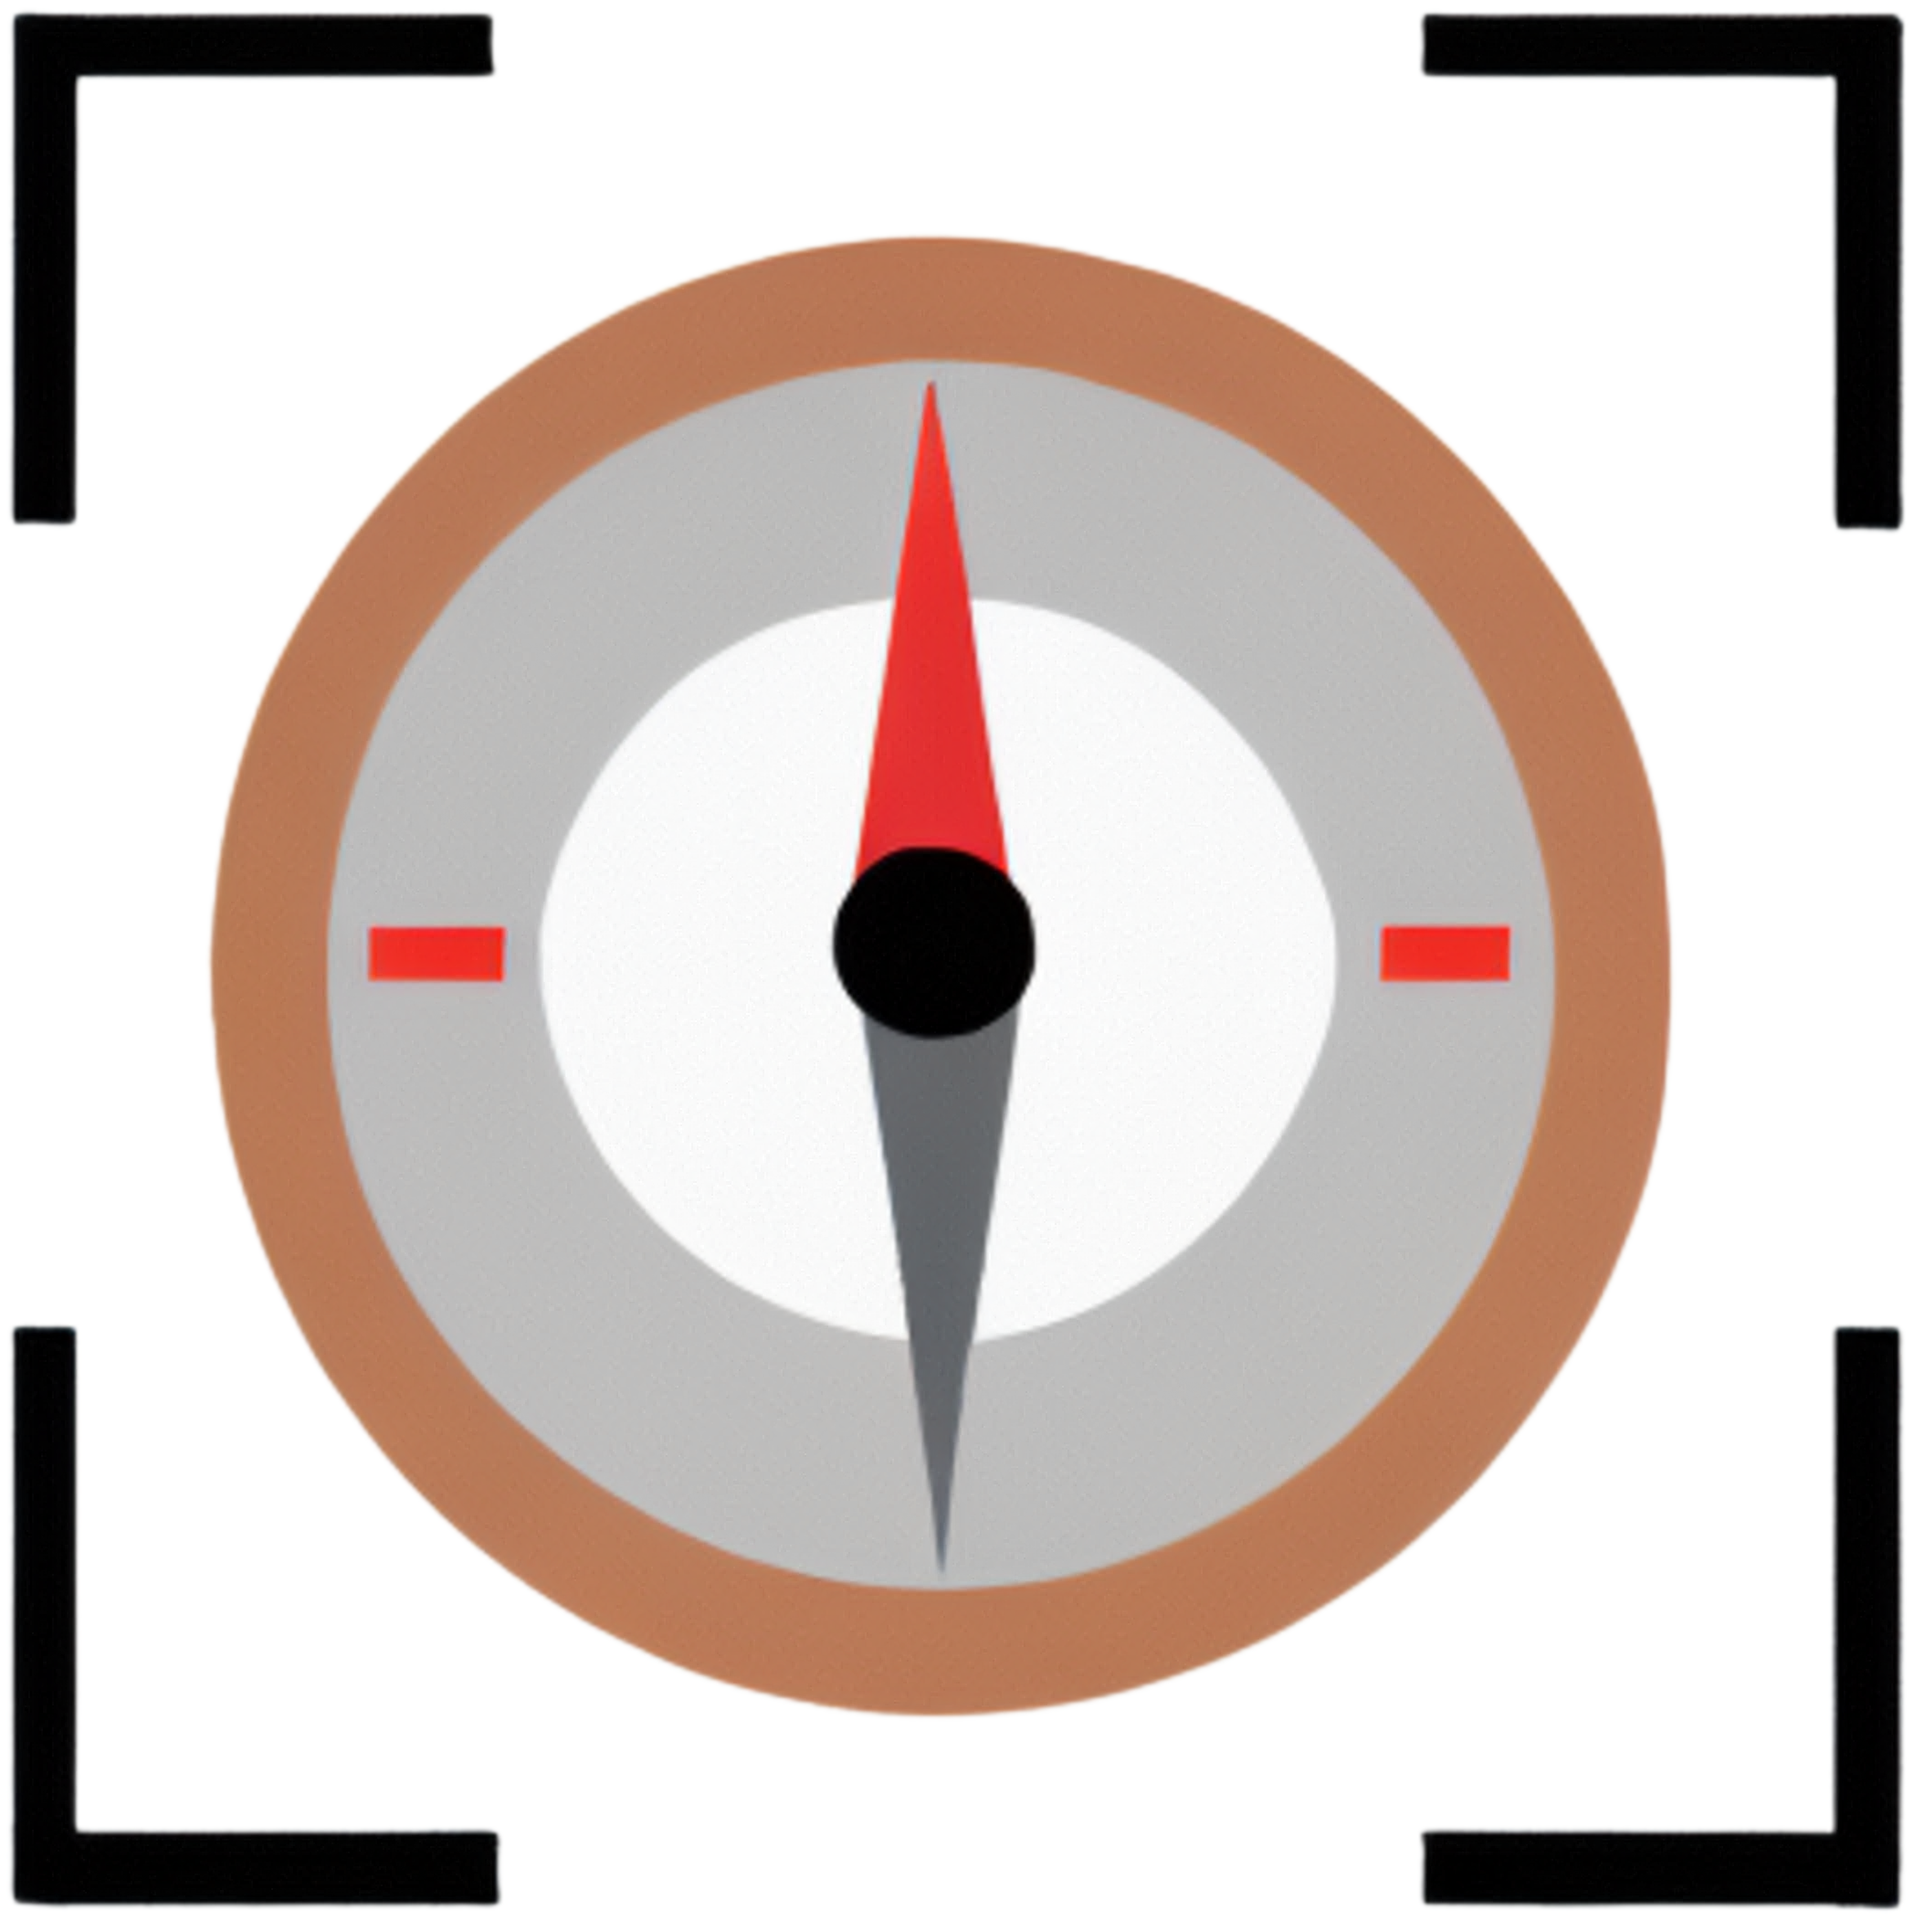
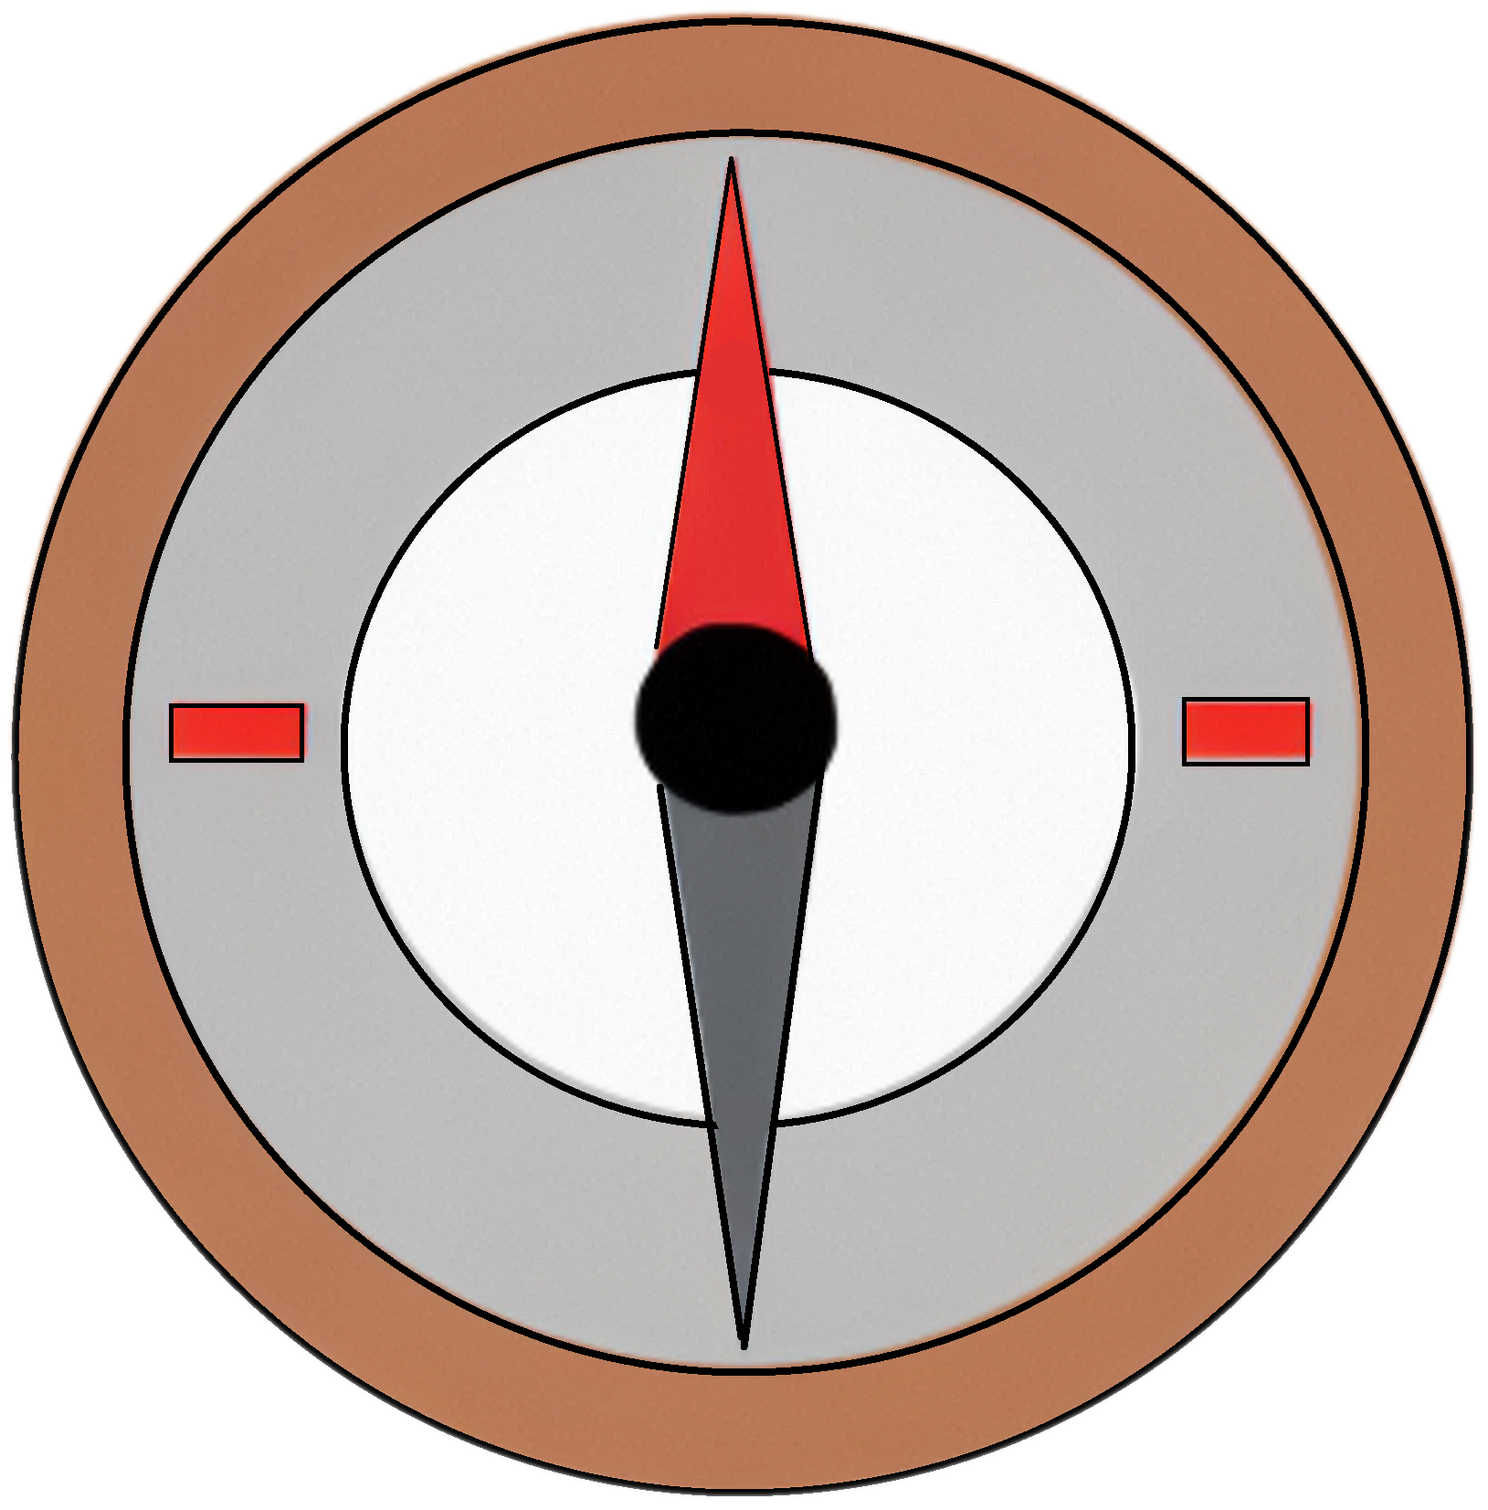
Fix for entering emojis on the main comment textarea. Enforced max length on title . Enhanced post create/edit modal . Made an unfollow route and button.

diff --git a/app/frontend/my-app/app/home/create_modal.tsx b/app/frontend/my-app/app/home/create_modal.tsx
@@ -8,6 +8,7 @@ type ModalProps = {
     url?: string
     post?: Post
     onClose: () => void
+    edit?: boolean
 }
 type coords = {
     latitude: number
@@ -28,7 +29,7 @@ type Media = {
   url: string;
 };
 
-export default function CreateModal ({url, post, onClose}:ModalProps){
+export default function CreateModal ({url, post, onClose, edit}:ModalProps){
 const [geoAble, setGeoAble] = useState(false)
 const [coords , setCoords] = useState<coords | null >(null)
 const [title, setTitle] = useState(post?.title ?? "");
@@ -66,7 +67,7 @@ const loadOptions = handle_debounce(url + '/street_addresses', 'streets')
                         <input type="text" placeholder="Title" name="title" value={title? title : ""}
                         onChange={(e) => setTitle(e.target.value)}
 
-                        required>
+                        required maxLength={40}>
                         </input>
                         
                         <textarea placeholder="Content" required
@@ -79,7 +80,7 @@ const loadOptions = handle_debounce(url + '/street_addresses', 'streets')
 
                         <div className='location_div_newpost'>
                             <button className={'location_btn_create_post'} type='button' onClick={()=> getLocation()}>
-                                Use location
+                                {edit? "Change location " : "Use location"}
                                 <img src={"/compass.png"} className='compass_icon_create_post'/>
                             </button> 
                              OR
@@ -96,7 +97,7 @@ const loadOptions = handle_debounce(url + '/street_addresses', 'streets')
                         <input type='hidden' name='longitude' 
                         value={coords?.longitude ? String(coords.longitude) : ""}/>
                         
-                        <button type="submit" className="post_btn_feed_modal" disabled={coords === null}>
+                        <button type="submit" className="post_btn_feed_modal" disabled={!edit && coords === null}>
                          Post
                         </button>
                    

diff --git a/app/frontend/my-app/app/dashboard/dashboard_component.tsx b/app/frontend/my-app/app/dashboard/dashboard_component.tsx
@@ -52,7 +52,14 @@ export default function DashboardMain({visitor}: DashboardProps){
      const [userStats, setStats] = useState<stats | null>(null)
      const [followClicked, setFollowClicked] = useState(false)
      const [followClicked2, setFollowClicked2] = useState(false)
-     
+     const [reqUser, setReqUser] = useState("")
+
+     const unfollow = async ()=>{
+        const unfollow_url = `${url}/unfollow/user/${id}`
+        await fetchAuth(unfollow_url, {method: 'POST'}).then(res=> res.status == 200 ? location.reload() : 
+      alert('There was a problem unfollowing , try again later'))
+     }
+
      useEffect(()=>{
        const fetch_data = async () =>{
        const params = new URLSearchParams(window.location.search)
@@ -89,7 +96,7 @@ export default function DashboardMain({visitor}: DashboardProps){
           setanimalName(animal_Name[0].toUpperCase() + animal_Name.substring(1))
           setanimalPic(data.user.Animal.picture)
           setanimalDesc(data.user.Animal.description)
-          
+          setReqUser(data.req_user)
           setUsername(data.user.username)
           setUserSettings(data.settings)
           setRegion(data.user.Region)
@@ -173,6 +180,12 @@ const follow = async () => {
                      <div className="col-12 top_bar_dashboard">
                        {!visitor ? `Welcome ${firstName}`
                                  : `You are viewing the profile of ${username}` }
+
+                      {reqUser !== id && following.includes(parseInt(id)) && <button className="unfollow"
+                      onClick={()=>unfollow()}>
+                        Unfollow
+                        </button>
+                        }
                      </div>
                 </div>
                 <div className="row justify-content-center">

diff --git a/app/frontend/my-app/app/home/post_detail_modal.tsx b/app/frontend/my-app/app/home/post_detail_modal.tsx
@@ -102,12 +102,15 @@ const InsertEmoji = () =>{
   const input = document.getElementById('sub_input') as HTMLInputElement | null;
 
   const sub_input = document.getElementById('c_input') as HTMLInputElement | null;
-
+  const text_input = document.getElementById('text_input_comment') as HTMLInputElement ;
   if (input){
       input.value += selectedEmoji
   }
   else if(sub_input){
      sub_input.value += selectedEmoji
+  }
+  else {
+    text_input.value += selectedEmoji
   }
   
 }
@@ -436,7 +439,7 @@ useEffect(() => {
                             
                                 <textarea placeholder="Type here ..." 
                                 className="comment_bar" 
-                                name='comment'>
+                                name='comment' id='text_input_comment'>
                                 </textarea>
                                 <img src={'/smile_icon.png'} className='smile_emote_comment'
                                     onClick={()=> {!emoteModal ? setEmoteModal(true): setEmoteModal(false)}}/>
@@ -447,7 +450,7 @@ useEffect(() => {
              </div>
              
        </div>
-       {editModalVisible && <CreateModal url={url} post={post} 
+       {editModalVisible && <CreateModal url={url} post={post} edit={true}
       onClose={()=> setEditModalVisible(false)}/>}
 
       

diff --git a/app/frontend/my-app/app/styles/home.css b/app/frontend/my-app/app/styles/home.css
@@ -182,8 +182,8 @@
 }
 
 input[type='file']{
-    background-color: rgb(222, 222, 222); color: black !important;  cursor: pointer;
-    border: 2px solid rgb(44, 44, 44) !important; text-align: center !important; padding: 1%;
+    background-color: rgb(38, 38, 38); color: rgb(222, 222, 222) !important;  cursor: pointer;
+    border: 1px solid rgb(90, 90, 90) !important; text-align: center !important; padding: 1%;
     font-size: small; 
 }
 .post_btn_feed_modal{
@@ -197,8 +197,8 @@ input[type='file']{
 }
 /******************************** POST DETAIL MODAL *********************************/
 .location_btn_create_post{
-    color: black;  padding: 1%; white-space: nowrap; padding-right: 2%;
-    display: flex; background-color: rgba(255, 255, 255, 0.657); gap: 4%; align-items: center;
+    color: rgb(231, 231, 231);  padding: 1%; white-space: nowrap; padding-right: 2%;
+    display: flex; background-color: rgba(94, 94, 94, 0.657); gap: 4%; align-items: center;
 }
 #post_detail_bg{
   
@@ -215,7 +215,7 @@ input[type='file']{
     align-items: center; border-radius: 5px; position: sticky; top:0; margin-bottom: 1vh;
  }
  .compass_icon_create_post{
-    height: 40px;
+    height: 25px;
  }
  .location_div_newpost{
     display: flex; align-items: center; gap: 2%;

diff --git a/app/backend/routes.js b/app/backend/routes.js
@@ -131,9 +131,21 @@ router.get('/profile/:id', authenticateToken, async (req, res)=>{
   })
   follows.push(req.user.id)
 
-  const req_user = req.user.username
+  const req_user = req.user.id
   res.json({user, settings, req_user: req_user, following:follows})
 })
+
+
+router.post('/unfollow/user/:id', authenticateToken, async (req, res)=>{
+  const userid = req.params.id
+  try {
+     await Followed.destroy({where: {followerId: req.user.id, followingId: userid}})
+  }catch(err){
+    res.sendStatus(404)
+  }
+ res.sendStatus(200)
+})
+
 
 router.post('/follow/:target_user', authenticateToken, async (req, res)=>{
   const params = req.params
@@ -432,8 +444,8 @@ router.post('/post/edit/:id', authenticateToken, upload.array('images', 5), asyn
   const post = await Post.findOne({where: {id: id}})
   post.title = data.title
   post.content = data.content
-  post.latitude = data.latitude
-  post.longitude = data.longitude
+  data.latitude ? post.latitude = data.latitude : post.latitude = post.latitude
+  data. longitude ? post.longitude = data.longitude: post.longitude = post.longitude
   // Delete old photos to replace them 
   if (req.user.id === post.UserId){
     const files = req.files

diff --git a/app/frontend/my-app/app/styles/dashboard.css b/app/frontend/my-app/app/styles/dashboard.css
@@ -19,6 +19,12 @@
 .dash_tab_icon{
     cursor: pointer;
 }
+.unfollow{
+    position: absolute; right: 100; background-color: rgb(0, 162, 255); color: white; 
+    border: 1px solid black;padding: 0.1%; padding-left: 1vw; padding-right:1vw;
+    font-size: small;
+
+}
 /*********************Follow popup*************************/
 
 

diff --git a/app/backend/db.js b/app/backend/db.js
@@ -110,7 +110,7 @@ SubComment.init(
 class Post extends Model {}
 Post.init(
   {
-   title:{type:DataTypes.STRING, allowNull:false},
+   title:{type:DataTypes.STRING(40), allowNull:false},
    content: {type: DataTypes.TEXT, allowNull: false},
    guessed_animal : {type: DataTypes.STRING},
    latitude:{type: DataTypes.FLOAT},
